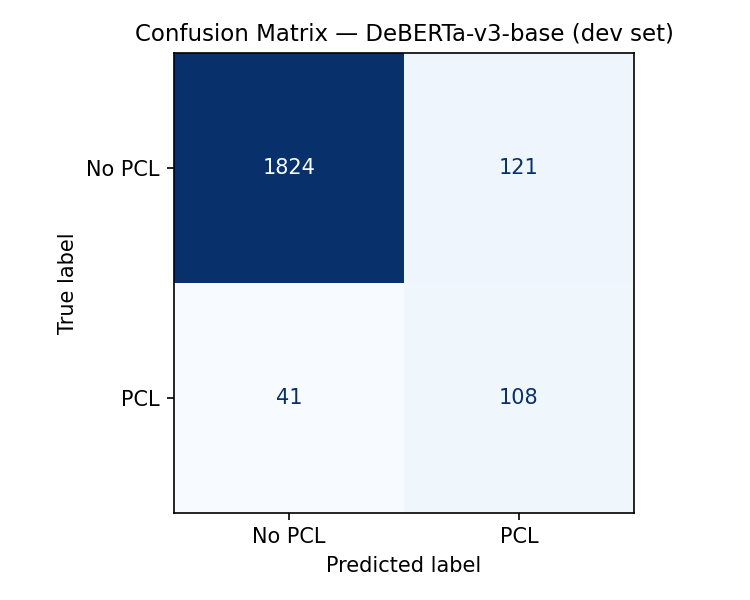
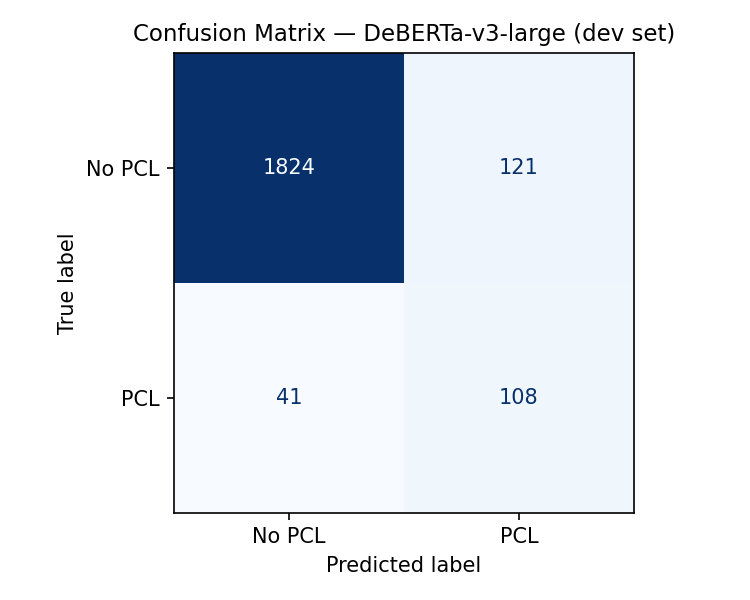
update threshold for plots and adjust titles in analysis functions

Changed region(s): [[0.4907, 0.03, 0.92, 0.09], [0.184, 0.03, 0.4293, 0.09]]

diff --git a/BestModel/analyse.py b/BestModel/analyse.py
@@ -16,7 +16,7 @@ DATA_DIR        = os.path.join(BASE_DIR, "..", "data")
 PRED_DIR        = os.path.join(BASE_DIR, "..", "predictions")
 OUTPUT_DIR      = os.path.join(BASE_DIR, "..", "eda")
 BASELINE_F1     = 0.48          # RoBERTa baseline from the paper
-THRESHOLD       = 0.50          # nominal threshold used for plots
+THRESHOLD       = 0.12          # nominal threshold used for plots
 
 os.makedirs(OUTPUT_DIR, exist_ok=True)
 
@@ -72,7 +72,7 @@ def plot_confusion_matrix(dev_df, overall_f1):
 
     fig, ax = plt.subplots(figsize=(5, 4))
     disp.plot(ax=ax, colorbar=False, cmap="Blues")
-    ax.set_title("Confusion Matrix — DeBERTa-v3-base (dev set)", fontsize=11)
+    ax.set_title("Confusion Matrix — DeBERTa-v3-large (dev set)", fontsize=11)
     plt.tight_layout()
     out = os.path.join(OUTPUT_DIR, "confusion_matrix.png")
     plt.savefig(out, dpi=150)
@@ -101,7 +101,7 @@ def plot_pr_curve(dev_df):
         ap = average_precision_score(dev_df["binary_label"], probs)
 
         fig, ax = plt.subplots(figsize=(6, 4))
-        ax.plot(recall, precision, lw=2, label=f"DeBERTa-v3-base (AP={ap:.3f})")
+        ax.plot(recall, precision, lw=2, label=f"DeBERTa-v3-large (AP={ap:.3f})")
 
         # Mark operating threshold
         idx = np.argmin(np.abs(thresholds - THRESHOLD))
@@ -162,7 +162,7 @@ def analyse_by_keyword(dev_df, overall_f1):
     ax.axvline(BASELINE_F1,  color="red",    lw=1.5, linestyle=":",
                label=f"Baseline F1={BASELINE_F1}")
     ax.set_xlabel("F1 Score (PCL class)")
-    ax.set_title("Per-Keyword F1 — DeBERTa-v3-base vs Baseline")
+    ax.set_title("Per-Keyword F1 — DeBERTa-v3-large vs Baseline")
     ax.legend(fontsize=8)
     plt.tight_layout()
     out = os.path.join(OUTPUT_DIR, "keyword_f1.png")
